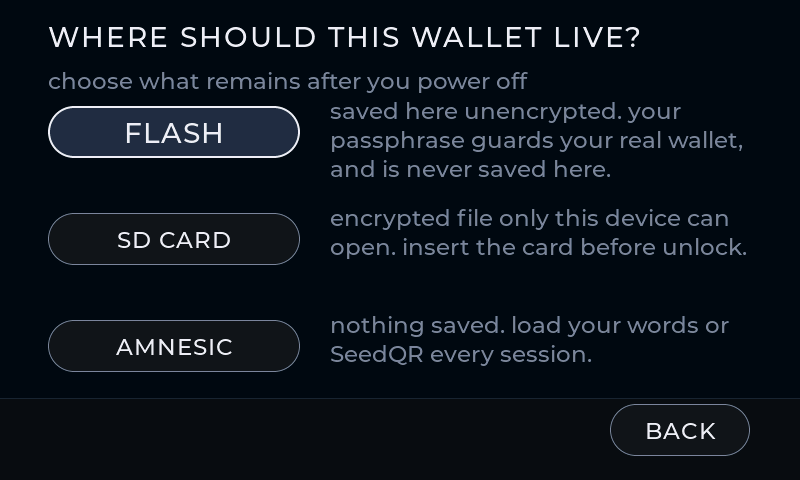
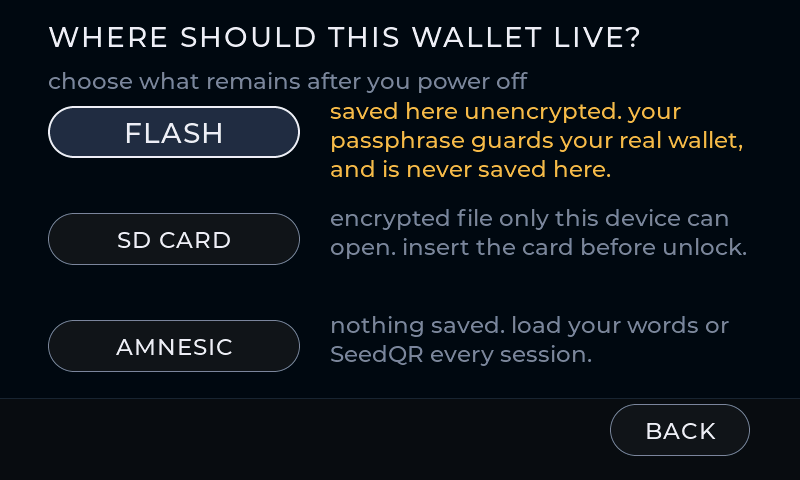
settings: NO UNDO rule and the RECOVERY WORDS row now says if paper checked
Implements HANDOFF-04. The right column of Settings had five slots and
the plan wanted to add a sixth ("YOUR BACKUP" as its own column), but the
column is full to the pixel (last row ends at 396, one clear of the 398
floor). This lands both ideas in the existing height:

  y=176  NO UNDO rule           new: 1px WT_STOP hair with the label knocked
                                 out of the fill, wt_font14 letter spacing 2
  y=200  CREATE NEW              unchanged
  y=256  WIPE                    moved up from 312
  y=312  RECOVERY WORDS          moved down + grown 52->72 for a two line pill
  (wipe note removed)

The NO UNDO rule is what says CREATE NEW and WIPE are the same class of
action. WIPE was the only red thing before; the rule makes REPLACE the
same kind of thing without recolouring the label, which is a change too
close to the confirmation copy to make lightly. STR_G_WIPE_NOTE stays in
i18n/ unreferenced for now rather than deleting 21 translations in the
same commit that moves the layout.

The RECOVERY WORDS row now carries the backup-verified state in the
same idiom the storage, type and duress rows already use, via
wt_pill_two_line_val:

  verified:   LV_SYMBOL_OK + "checked  ID <fingerprint> is on your card" in WT_OK
  never:      LV_SYMBOL_WARNING + "paper never checked" in WT_WARN

Colour AND a glyph, per ADDENDUM-02: in GREEN theme the accent is byte
identical to WT_OK, so colour alone stops carrying meaning. The prefix
runs regardless.
[…]

Changed region(s): [[0.4062, 0.2812, 0.9375, 0.3125], [0.4062, 0.2188, 0.8438, 0.25], [0.4062, 0.3438, 0.7812, 0.375]]

diff --git a/main/i18n_tables.c b/main/i18n_tables.c
@@ -425,6 +425,9 @@ static const char *const tbl_en[STR_N] = {
     [STR_W_CHOOSE_RESTORE] = "RESTORE FROM A SEED PHRASE",
     [STR_R_NEVER_HANDED] = "NEVER HANDED OUT",
     [STR_R_HANDED_ALREADY] = "HANDED OUT ALREADY",
+    [STR_I_SEC_NO_UNDO] = "NO UNDO",
+    [STR_I_WORDS_VERIFIED_FMT] = "checked \xc2\xb7 ID %s is on your card",
+    [STR_I_WORDS_UNVERIFIED] = "paper never checked",
 };
 
 static const char *const tbl_de[STR_N] = {
@@ -851,6 +854,9 @@ static const char *const tbl_de[STR_N] = {
     [STR_W_CHOOSE_RESTORE] = "AUS SEED-PHRASE WIEDERHERSTELLEN",
     [STR_R_NEVER_HANDED] = "NIE HERAUSGEGEBEN",
     [STR_R_HANDED_ALREADY] = "BEREITS HERAUSGEGEBEN",
+    [STR_I_SEC_NO_UNDO] = "NICHT UMKEHRBAR",
+    [STR_I_WORDS_VERIFIED_FMT] = "geprüft \xc2\xb7 ID %s ist auf deiner Karte",
+    [STR_I_WORDS_UNVERIFIED] = "Papier nie geprüft",
 };
 
 static const char *const tbl_es[STR_N] = {
@@ -1277,6 +1283,9 @@ static const char *const tbl_es[STR_N] = {
     [STR_W_CHOOSE_RESTORE] = "RESTAURAR DE UNA FRASE DE RECUPERACIÓN",
     [STR_R_NEVER_HANDED] = "NUNCA ENTREGADA",
     [STR_R_HANDED_ALREADY] = "YA ENTREGADA",
+    [STR_I_SEC_NO_UNDO] = "SIN DESHACER",
+    [STR_I_WORDS_VERIFIED_FMT] = "revisado \xc2\xb7 ID %s está en tu papel",
+    [STR_I_WORDS_UNVERIFIED] = "papel sin revisar",
 };
 
 static const char *const tbl_fr[STR_N] = {
@@ -1703,6 +1712,9 @@ static const char *const tbl_fr[STR_N] = {
     [STR_W_CHOOSE_RESTORE] = "RESTAURER DEPUIS UNE PHRASE DE RÉCUPÉRATION",
     [STR_R_NEVER_HANDED] = "JAMAIS DONNÉE",
     [STR_R_HANDED_ALREADY] = "DÉJÀ DONNÉE",
+    [STR_I_SEC_NO_UNDO] = "IRRÉVERSIBLE",
+    [STR_I_WORDS_VERIFIED_FMT] = "vérifié \xc2\xb7 ID %s est sur ton papier",
+    [STR_I_WORDS_UNVERIFIED] = "papier jamais vérifié",
 };
 
 static const char *const tbl_it[STR_N] = {
@@ -2129,6 +2141,9 @@ static const char *const tbl_it[STR_N] = {
     [STR_W_CHOOSE_RESTORE] = "RIPRISTINA DA UNA FRASE DI RECUPERO",
     [STR_R_NEVER_HANDED] = "MAI CONSEGNATO",
     [STR_R_HANDED_ALREADY] = "GIÀ CONSEGNATO",
+    [STR_I_SEC_NO_UNDO] = "IRREVERSIBILE",
+    [STR_I_WORDS_VERIFIED_FMT] = "verificato \xc2\xb7 ID %s è sul tuo foglio",
+    [STR_I_WORDS_UNVERIFIED] = "foglio mai controllato",
 };
 
 static const char *const tbl_ja[STR_N] = {
@@ -2555,6 +2570,9 @@ static const char *const tbl_ja[STR_N] = {
     [STR_W_CHOOSE_RESTORE] = "リカバリーフレーズから復元",
     [STR_R_NEVER_HANDED] = "未配布",
     [STR_R_HANDED_ALREADY] = "配布済み",
+    [STR_I_SEC_NO_UNDO] = "取り消し不可",
+    [STR_I_WORDS_VERIFIED_FMT] = "確認済 \xc2\xb7 ID %s は紙にあります",
+    [STR_I_WORDS_UNVERIFIED] = "紙は未確認",
 };
 
 static const char *const tbl_ko[STR_N] = {
@@ -2981,6 +2999,9 @@ static const char *const tbl_ko[STR_N] = {
     [STR_W_CHOOSE_RESTORE] = "복구 문구로 복원",
     [STR_R_NEVER_HANDED] = "미배포",
     [STR_R_HANDED_ALREADY] = "이미 배포됨",
+    [STR_I_SEC_NO_UNDO] = "취소 불가",
+    [STR_I_WORDS_VERIFIED_FMT] = "확인됨 \xc2\xb7 ID %s 은(는) 종이에 있음",
+    [STR_I_WORDS_UNVERIFIED] = "종이 미확인",
 };
 
 static const char *const tbl_nl[STR_N] = {
@@ -3407,6 +3428,9 @@ static const char *const tbl_nl[STR_N] = {
     [STR_W_CHOOSE_RESTORE] = "HERSTELLEN VAN EEN HERSTELZIN",
     [STR_R_NEVER_HANDED] = "NOOIT UITGEGEVEN",
     [STR_R_HANDED_ALREADY] = "AL UITGEGEVEN",
+    [STR_I_SEC_NO_UNDO] = "NIET TERUG TE DRAAIEN",
+    [STR_I_WORDS_VERIFIED_FMT] = "gecontroleerd \xc2\xb7 ID %s staat op je kaart",
+    [STR_I_WORDS_UNVERIFIED] = "papier nooit gecontroleerd",
 };
 
 static const char *const tbl_pl[STR_N] = {
@@ -3833,6 +3857,9 @@ static const char *const tbl_pl[STR_N] = {
     [STR_W_CHOOSE_RESTORE] = "PRZYWRÓĆ Z FRAZY ODZYSKIWANIA",
     [STR_R_NEVER_HANDED] = "NIGDY NIE PODANY",
     [STR_R_HANDED_ALREADY] = "JUŻ PODANY",
+    [STR_I_SEC_NO_UNDO] = "NIEODWRACALNE",
+    [STR_I_WORDS_VERIFIED_FMT] = "sprawdzone \xc2\xb7 ID %s jest na twoim papierze",
+    [STR_I_WORDS_UNVERIFIED] = "papier nigdy nie sprawdzony",
 };
 
 static const char *const tbl_pt[STR_N] = {
@@ -4259,6 +4286,9 @@ static const char *const tbl_pt[STR_N] = {
     [STR_W_CHOOSE_RESTORE] = "RESTAURAR DE UMA FRASE DE RECUPERAÇÃO",
     [STR_R_NEVER_HANDED] = "NUNCA ENTREGUE",
     [STR_R_HANDED_ALREADY] = "JÁ ENTREGUE",
+    [STR_I_SEC_NO_UNDO] = "SEM DESFAZER",
+    [STR_I_WORDS_VERIFIED_FMT] = "verificado \xc2\xb7 ID %s está no seu papel",
+    [STR_I_WORDS_UNVERIFIED] = "papel nunca verificado",
 };
 
 static const char *const tbl_ru[STR_N] = {
@@ -4685,6 +4715,9 @@ static const char *const tbl_ru[STR_N] = {
     [STR_W_CHOOSE_RESTORE] = "ВОССТАНОВИТЬ ИЗ ФРАЗЫ ВОССТАНОВЛЕНИЯ",
     [STR_R_NEVER_HANDED] = "ЕЩЕ НЕ ПЕРЕДАН",
     [STR_R_HANDED_ALREADY] = "УЖЕ ПЕРЕДАН",
+    [STR_I_SEC_NO_UNDO] = "БЕЗ ОТМЕНЫ",
+    [STR_I_WORDS_VERIFIED_FMT] = "проверено \xc2\xb7 ID %s есть на вашей бумаге",
+    [STR_I_WORDS_UNVERIFIED] = "бумага не проверена",
 };
 
 static const char *const tbl_tr[STR_N] = {
@@ -5111,6 +5144,9 @@ static const char *const tbl_tr[STR_N] = {
     [STR_W_CHOOSE_RESTORE] = "KURTARMA CÜMLESİNDEN GERİ YÜKLE",
     [STR_R_NEVER_HANDED] = "HİÇ VERİLMEDİ",
     [STR_R_HANDED_ALREADY] = "ZATEN VERİLDİ",
+    [STR_I_SEC_NO_UNDO] = "GERİ ALINAMAZ",
+    [STR_I_WORDS_VERIFIED_FMT] = "kontrol edildi \xc2\xb7 ID %s kartınızda",
+    [STR_I_WORDS_UNVERIFIED] = "kağıt hiç kontrol edilmedi",
 };
 
 static const char *const tbl_vi[STR_N] = {
@@ -5537,6 +5573,9 @@ static const char *const tbl_vi[STR_N] = {
     [STR_W_CHOOSE_RESTORE] = "KHÔI PHỤC TỪ CỤM TỪ KHÔI PHỤC",
     [STR_R_NEVER_HANDED] = "CHƯA TỪNG ĐƯA RA",
     [STR_R_HANDED_ALREADY] = "ĐÃ ĐƯA RA",
+    [STR_I_SEC_NO_UNDO] = "KHÔNG HOÀN TÁC",
+    [STR_I_WORDS_VERIFIED_FMT] = "đã kiểm \xc2\xb7 ID %s có trên giấy của bạn",
+    [STR_I_WORDS_UNVERIFIED] = "giấy chưa kiểm",
 };
 
 static const char *const tbl_zh[STR_N] = {
@@ -5963,6 +6002,9 @@ static const char *const tbl_zh[STR_N] = {
     [STR_W_CHOOSE_RESTORE] = "从助记词恢复",
     [STR_R_NEVER_HANDED] = "从未给出",
     [STR_R_HANDED_ALREADY] = "已经给出",
+    [STR_I_SEC_NO_UNDO] = "无法撤销",
+    [STR_I_WORDS_VERIFIED_FMT] = "已核对 \xc2\xb7 ID %s 在你的纸上",
+    [STR_I_WORDS_UNVERIFIED] = "纸未核对",
 };
 
 static const char *const tbl_es_es[STR_N] = {
@@ -6389,6 +6431,9 @@ static const char *const tbl_es_es[STR_N] = {
     [STR_W_CHOOSE_RESTORE] = "RESTAURAR DE UNA FRASE DE RECUPERACIÓN",
     [STR_R_NEVER_HANDED] = "NUNCA ENTREGADA",
     [STR_R_HANDED_ALREADY] = "YA ENTREGADA",
+    [STR_I_SEC_NO_UNDO] = "SIN DESHACER",
+    [STR_I_WORDS_VERIFIED_FMT] = "revisado \xc2\xb7 ID %s está en tu papel",
+    [STR_I_WORDS_UNVERIFIED] = "papel sin revisar",
 };
 
 static const char *const tbl_pt_pt[STR_N] = {
@@ -6815,6 +6860,9 @@ static const char *const tbl_pt_pt[STR_N] = {
     [STR_W_CHOOSE_RESTORE] = "RESTAURAR DE UMA FRASE DE RECUPERAÇÃO",
     [STR_R_NEVER_HANDED] = "NUNCA ENTREGUE",
     [STR_R_HANDED_ALREADY] = "JÁ ENTREGUE",
+    [STR_I_SEC_NO_UNDO] = "SEM DESFAZER",
+    [STR_I_WORDS_VERIFIED_FMT] = "verificado \xc2\xb7 ID %s está no seu papel",
+    [STR_I_WORDS_UNVERIFIED] = "papel nunca verificado",
 };
 
 static const char *const tbl_nb[STR_N] = {
@@ -7241,6 +7289,9 @@ static const char *const tbl_nb[STR_N] = {
     [STR_W_CHOOSE_RESTORE] = "GJENOPPRETT FRA GJENOPPRETTINGSFRASE",
     [STR_R_NEVER_HANDED] = "ALDRI GITT UT",
     [STR_R_HANDED_ALREADY] = "ALLEREDE GITT UT",
+    [STR_I_SEC_NO_UNDO] = "INGEN ANGRING",
+    [STR_I_WORDS_VERIFIED_FMT] = "sjekket \xc2\xb7 ID %s står på papiret ditt",
+    [STR_I_WORDS_UNVERIFIED] = "papir aldri sjekket",
 };
 
 static const char *const tbl_sv[STR_N] = {
@@ -7667,6 +7718,9 @@ static const char *const tbl_sv[STR_N] = {
     [STR_W_CHOOSE_RESTORE] = "ÅTERSTÄLL FRÅN ÅTERSTÄLLNINGSFRAS",
     [STR_R_NEVER_HANDED] = "ALDRIG UTLÄMNAD",
     [STR_R_HANDED_ALREADY] = "REDAN UTLÄMNAD",
+    [STR_I_SEC_NO_UNDO] = "INGEN ÅNGRING",
+    [STR_I_WORDS_VERIFIED_FMT] = "kollad \xc2\xb7 ID %s finns på ditt papper",
+    [STR_I_WORDS_UNVERIFIED] = "papper aldrig kollat",
 };
 
 static const char *const tbl_da[STR_N] = {
@@ -8093,6 +8147,9 @@ static const char *const tbl_da[STR_N] = {
     [STR_W_CHOOSE_RESTORE] = "GENDAN FRA GENDANNELSESSÆTNING",
     [STR_R_NEVER_HANDED] = "ALDRIG UDLEVERET",
     [STR_R_HANDED_ALREADY] = "ALLEREDE UDLEVERET",
+    [STR_I_SEC_NO_UNDO] = "INGEN FORTRYD",
+    [STR_I_WORDS_VERIFIED_FMT] = "tjekket \xc2\xb7 ID %s står på dit papir",
+    [STR_I_WORDS_UNVERIFIED] = "papir aldrig tjekket",
 };
 
 static const char *const tbl_cs[STR_N] = {
@@ -8519,6 +8576,9 @@ static const char *const tbl_cs[STR_N] = {
     [STR_W_CHOOSE_RESTORE] = "OBNOVIT Z OBNOVOVACÍ FRÁZE",
     [STR_R_NEVER_HANDED] = "NIKDY NEVYDÁNA",
     [STR_R_HANDED_ALREADY] = "JIŽ VYDÁNA",
+    [STR_I_SEC_NO_UNDO] = "NELZE VRÁTIT",
+    [STR_I_WORDS_VERIFIED_FMT] = "ověřeno \xc2\xb7 ID %s je na vašem papíře",
+    [STR_I_WORDS_UNVERIFIED] = "papír nikdy neověřen",
 };
 
 static const char *const tbl_hr[STR_N] = {
@@ -8945,6 +9005,9 @@ static const char *const tbl_hr[STR_N] = {
     [STR_W_CHOOSE_RESTORE] = "OBNOVI IZ FRAZE ZA OPORAVAK",
     [STR_R_NEVER_HANDED] = "NIKAD IZDANA",
     [STR_R_HANDED_ALREADY] = "VEĆ IZDANA",
+    [STR_I_SEC_NO_UNDO] = "BEZ VRAĆANJA",
+    [STR_I_WORDS_VERIFIED_FMT] = "provjereno \xc2\xb7 ID %s je na tvom papiru",
+    [STR_I_WORDS_UNVERIFIED] = "papir nikad provjeren",
 };
 
 const char *const *const i18n_tables[I18N_LANG_N] = {

diff --git a/main/wallet_settings.c b/main/wallet_settings.c
@@ -439,7 +439,15 @@ static void storage_chooser_screen(void)
                                48, py[i], 252, 52, storage_pick_cb,
                                (void *)(intptr_t)mode);
         wt_pill_select(p, current == mode);
-        wt_wraph(s_scr, storage_mode_note(mode), 330, py[i] - 10, 420, 87);
+        lv_obj_t *note = wt_wraph(s_scr, storage_mode_note(mode),
+                                  330, py[i] - 10, 420, 87);
+        // Per ADDENDUM-02 style rule and HANDOFF-04's storage residual: the
+        // FLASH note is a caution when the chip reports encryption OFF, not a
+        // footnote. WT_WARN, not the default WT_MUT.  "your recovery words are
+        // saved here unencrypted" needs to READ as a warning; drawing it in
+        // muted grey was the review's original complaint on this row.
+        if (mode == WSEED_MODE_KEEP && !wallet_seed_flash_encrypted())
+            lv_obj_set_style_text_color(note, WT_WARN, 0);
     }
     lv_obj_t *back = wt_pill(s_scr, tr(STR_C_BACK), WT_BACK_X, WT_ACTION_Y, 140,
                              storage_chooser_back_cb, NULL);
@@ -996,21 +1004,74 @@ void wallet_settings_open(lv_obj_t *parent)
                          storage_mode_name(wallet_seed_mode()));
     wt_pill_select(s_storage_pill, true);
 
-    // The remaining names are complete actions and keep normal 52px
-    // targets. Their previous explanatory captions were useful but hid the
-    // storage control the owner actually needs; confirmations still explain
-    // the two actions that can replace or erase a wallet before either runs.
+    // NO UNDO rule: one 1px WT_STOP hair with the label sitting on it, at
+    // y=176, before the two destructive actions. Groups CREATE NEW and WIPE
+    // together as the same class of thing. The rule is why the wipe note is
+    // gone from y=366: the two-word label under a red hairline says the same
+    // caution in the space a caption used, and confirmations still explain
+    // both actions in full before either runs.
+    {
+        lv_obj_t *rule = lv_obj_create(s_scr);
+        lv_obj_remove_style_all(rule);
+        lv_obj_set_pos(rule, 430, 186);
+        lv_obj_set_size(rule, 340, 1);
+        lv_obj_set_style_bg_color(rule, WT_STOP, 0);
+        lv_obj_set_style_bg_opa(rule, LV_OPA_COVER, 0);
+        lv_obj_t *lbl = lv_label_create(s_scr);
+        lv_label_set_text(lbl, tr(STR_I_SEC_NO_UNDO));
+        lv_obj_set_style_text_font(lbl, wt_font14(), 0);
+        lv_obj_set_style_text_color(lbl, WT_STOP, 0);
+        lv_obj_set_style_text_letter_space(lbl, 2, 0);
+        lv_obj_set_style_bg_color(lbl, WT_BG, 0);       // knock out the rule
+        lv_obj_set_style_bg_opa(lbl, LV_OPA_COVER, 0);
+        lv_obj_set_style_pad_hor(lbl, 6, 0);
+        lv_obj_set_pos(lbl, 436, 176);                  // slight inset from rule end
+    }
+
+    // Under the rule: CREATE NEW at 200, WIPE joins it at 256. Both are the
+    // destructive actions; the rule above says why they belong together.
     s_replace_pill = mk_pillh(tr(STR_G_CREATE_NEW), 430, 200, 340, 52,
                               replace_cb, NULL);
-
-    mk_pillh(tr(STR_I_WORDS_BTN), 430, 256, 340, 52, words_cb, NULL);
 
     // wipe: seed off the device entirely (back to just a game). Red text so it
     // reads as destructive before it's ever tapped; a hold on the next screen
     // is what actually erases.
-    s_wipe_pill = mk_pillh(tr(STR_G_WIPE), 430, 312, 340, 52, wipe_cb, NULL);
+    s_wipe_pill = mk_pillh(tr(STR_G_WIPE), 430, 256, 340, 52, wipe_cb, NULL);
     lv_obj_set_style_text_color(lv_obj_get_child(s_wipe_pill, 0), STOP_COL, 0);
-    wt_note(s_scr, tr(STR_G_WIPE_NOTE), 430, 366, 340, 30);
+
+    // RECOVERY WORDS: the row moves DOWN and grows to 72 tall + two lines, so
+    // the second line can carry whether the paper backup was ever rehearsed
+    // on this device. The redraw that spawned this asked for a separate
+    // "YOUR BACKUP" column; the columns are full to the pixel and the state
+    // belongs on the row about the words anyway. 312 + 72 = 384, 14px above
+    // the 398 floor.
+    {
+        lv_obj_t *pill = mk_pillh(tr(STR_I_WORDS_BTN), 430, 312, 340, 72,
+                                  words_cb, NULL);
+        bool ok = wallet_ui_backup_verified();
+        char buf[160];
+        if (ok) {
+            uint8_t fp[4]; wallet_ui_last_fp(fp);
+            char idstr[16];
+            snprintf(idstr, sizeof idstr, "%02X%02X%02X%02X",
+                     fp[0], fp[1], fp[2], fp[3]);
+            int p = snprintf(buf, sizeof buf, "%s  ", LV_SYMBOL_OK);
+            snprintf(buf + p, sizeof buf - p,
+                     tr(STR_I_WORDS_VERIFIED_FMT), idstr);
+        } else {
+            snprintf(buf, sizeof buf, "%s  %s",
+                     LV_SYMBOL_WARNING, tr(STR_I_WORDS_UNVERIFIED));
+        }
+        wt_pill_two_line_val(pill, buf);
+        // A colour cue AND a glyph, per ADDENDUM-02: in GREEN theme the
+        // accent is byte identical to WT_OK, so colour alone stops carrying
+        // meaning. The prefix stays regardless: ✓ for verified, ▲ for the
+        // never-checked warning.
+        lv_obj_t *sub = lv_obj_get_child(pill, 1);
+        if (sub) {
+            lv_obj_set_style_text_color(sub, ok ? WT_OK : WT_WARN, 0);
+        }
+    }
 
     // LANGUAGE: the current language on the pill; opens the picker. The pill is
     // narrow, so strip the regional qualifier ("ESPAÑOL (ESPAÑA)" -> "ESPAÑOL")

diff --git a/sim/sim_main.c b/sim/sim_main.c
@@ -1031,7 +1031,7 @@ int main(void) {
 
   // RECOVERY WORDS now belongs to Settings. Verify the paper copy, return to
   // Settings, then separately exercise the sensitive word reveal.
-  touch(600, 280); pump(3); release(); pump(6);     // RECOVERY WORDS -> warning
+  touch(600, 348); pump(3); release(); pump(6);     // RECOVERY WORDS -> warning
   save("/tmp/sim_words_warn.ppm");                  // SHOW / VERIFY MY COPY / BACK
   // VERIFY MY COPY: type the stored dev mnemonic (11x abandon + about).
   // 'abandon' = 'a','b' -> suggestion[0]; 'about' = 'a','b','o' -> suggestion[0].
@@ -1059,7 +1059,7 @@ int main(void) {
   save("/tmp/sim_verify_ok.ppm");
   touch(198, 430); pump(3); release(); pump(6);     // DONE -> Settings
 
-  touch(600, 280); pump(3); release(); pump(6);     // RECOVERY WORDS -> warning again
+  touch(600, 348); pump(3); release(); pump(6);     // RECOVERY WORDS -> warning again
   touch(168, 430); pump(3); release(); pump(6);     // SHOW THE WORDS
   save("/tmp/sim_words.ppm");
   touch(680, 430); pump(3); release(); pump(6);     // DONE -> Settings
@@ -1074,7 +1074,7 @@ int main(void) {
     for (int i = 0; i < 24; i++)
       o += (size_t)snprintf(s_sim_seed + o, sizeof s_sim_seed - o,
                             "%s%s", i ? " " : "", SIM_WORDS[i]);
-    touch(600, 280); pump(3); release(); pump(6);   // RECOVERY WORDS -> warning
+    touch(600, 348); pump(3); release(); pump(6);   // RECOVERY WORDS -> warning
     touch(168, 430); pump(3); release(); pump(6);   // SHOW THE WORDS
     save("/tmp/sim_words24_p1.ppm");                // 1-12 / 24, NEXT but no BACK
     touch(278, 430); pump(3); release(); pump(6);   // NEXT
@@ -1399,7 +1399,7 @@ int main(void) {
   // step 9: WIPE WALLET — arm (red), confirm, ERASED screen, OK -> game menu
   touch(670, 240); pump(3); release(); pump(6);     // Settings tile
   // the WIPE pill is wallet_settings.c's mk_pillh(430, 310, 340, 52)
-  touch(590, 336); pump(4); release(); pump(8);     // WIPE WALLET -> confirm screen
+  touch(590, 282); pump(4); release(); pump(8);     // WIPE WALLET -> confirm screen
   lv_refr_now(NULL); pump(2);
   save("/tmp/sim_wipe_confirm.ppm");                // ERASE THIS WALLET? + HOLD pill
   // a tap is NOT enough: press, release early, nothing must happen

diff --git a/main/wallet_setup.c b/main/wallet_setup.c
@@ -728,10 +728,16 @@ static void storage_screen(void)
     wt_pill_primary(flash);
 
     // The FLASH note tells the truth about what a chip dump would find, which
-    // is the encryption state.
-    wt_wraph(s_scr, tr(wallet_seed_flash_encrypted() ? STR_W_FLASH_ENC_NOTE
-                                                      : STR_W_KEEP_NOTE),
-             330, 96, 420, 87);
+    // is the encryption state. Per HANDOFF-04's storage residual: when the
+    // chip reports encryption OFF, this note is a caution not a footnote, so
+    // it renders in WT_WARN not the default WT_MUT.
+    {
+        bool enc = wallet_seed_flash_encrypted();
+        lv_obj_t *n = wt_wraph(s_scr, tr(enc ? STR_W_FLASH_ENC_NOTE
+                                             : STR_W_KEEP_NOTE),
+                               330, 96, 420, 87);
+        if (!enc) lv_obj_set_style_text_color(n, WT_WARN, 0);
+    }
     mk_pill(tr(STR_W_SD_BTN), 48, 213, 252, storage_pick_cb,
             (void *)(intptr_t)WSEED_MODE_SD);
     wt_wraph(s_scr, tr(STR_W_SD_NOTE), 330, 203, 420, 87);

diff --git a/main/wallet_ui.h b/main/wallet_ui.h
@@ -17,6 +17,10 @@ bool wallet_ui_active(void);
 
 // Fingerprint of the most recently unlocked wallet (4 bytes).
 void wallet_ui_last_fp(uint8_t out[4]);
+// True after the words + exact passphrase were rehearsed on this device
+// (BACKUP VERIFY flow), false until then. Settings' RECOVERY WORDS row uses
+// this to show "paper never checked" instead of pretending everything is fine.
+bool wallet_ui_backup_verified(void);
 // Record it without going through a login screen. Only the decoy unlock needs
 // this: it opens with an empty passphrase and never draws the keyboard.
 void wallet_ui_set_last_fp(const uint8_t fp[4]);

diff --git a/main/wallet_ui.c b/main/wallet_ui.c
@@ -673,6 +673,7 @@ static void fp_back_cb(lv_event_t *e) {
 }
 
 void wallet_ui_last_fp(uint8_t out[4]) { memcpy(out, s_last_fp, 4); }
+bool wallet_ui_backup_verified(void) { return s_backup_verified; }
 
 // The decoy signer opens straight from the game with no login screen at all,
 // so nothing here runs to record its fingerprint. main.c sets it directly

diff --git a/main/i18n_keys.h b/main/i18n_keys.h
@@ -425,6 +425,9 @@ enum {
     STR_W_CHOOSE_RESTORE,
     STR_R_NEVER_HANDED,
     STR_R_HANDED_ALREADY,
+    STR_I_SEC_NO_UNDO,
+    STR_I_WORDS_VERIFIED_FMT,
+    STR_I_WORDS_UNVERIFIED,
     STR_N
 };
 
